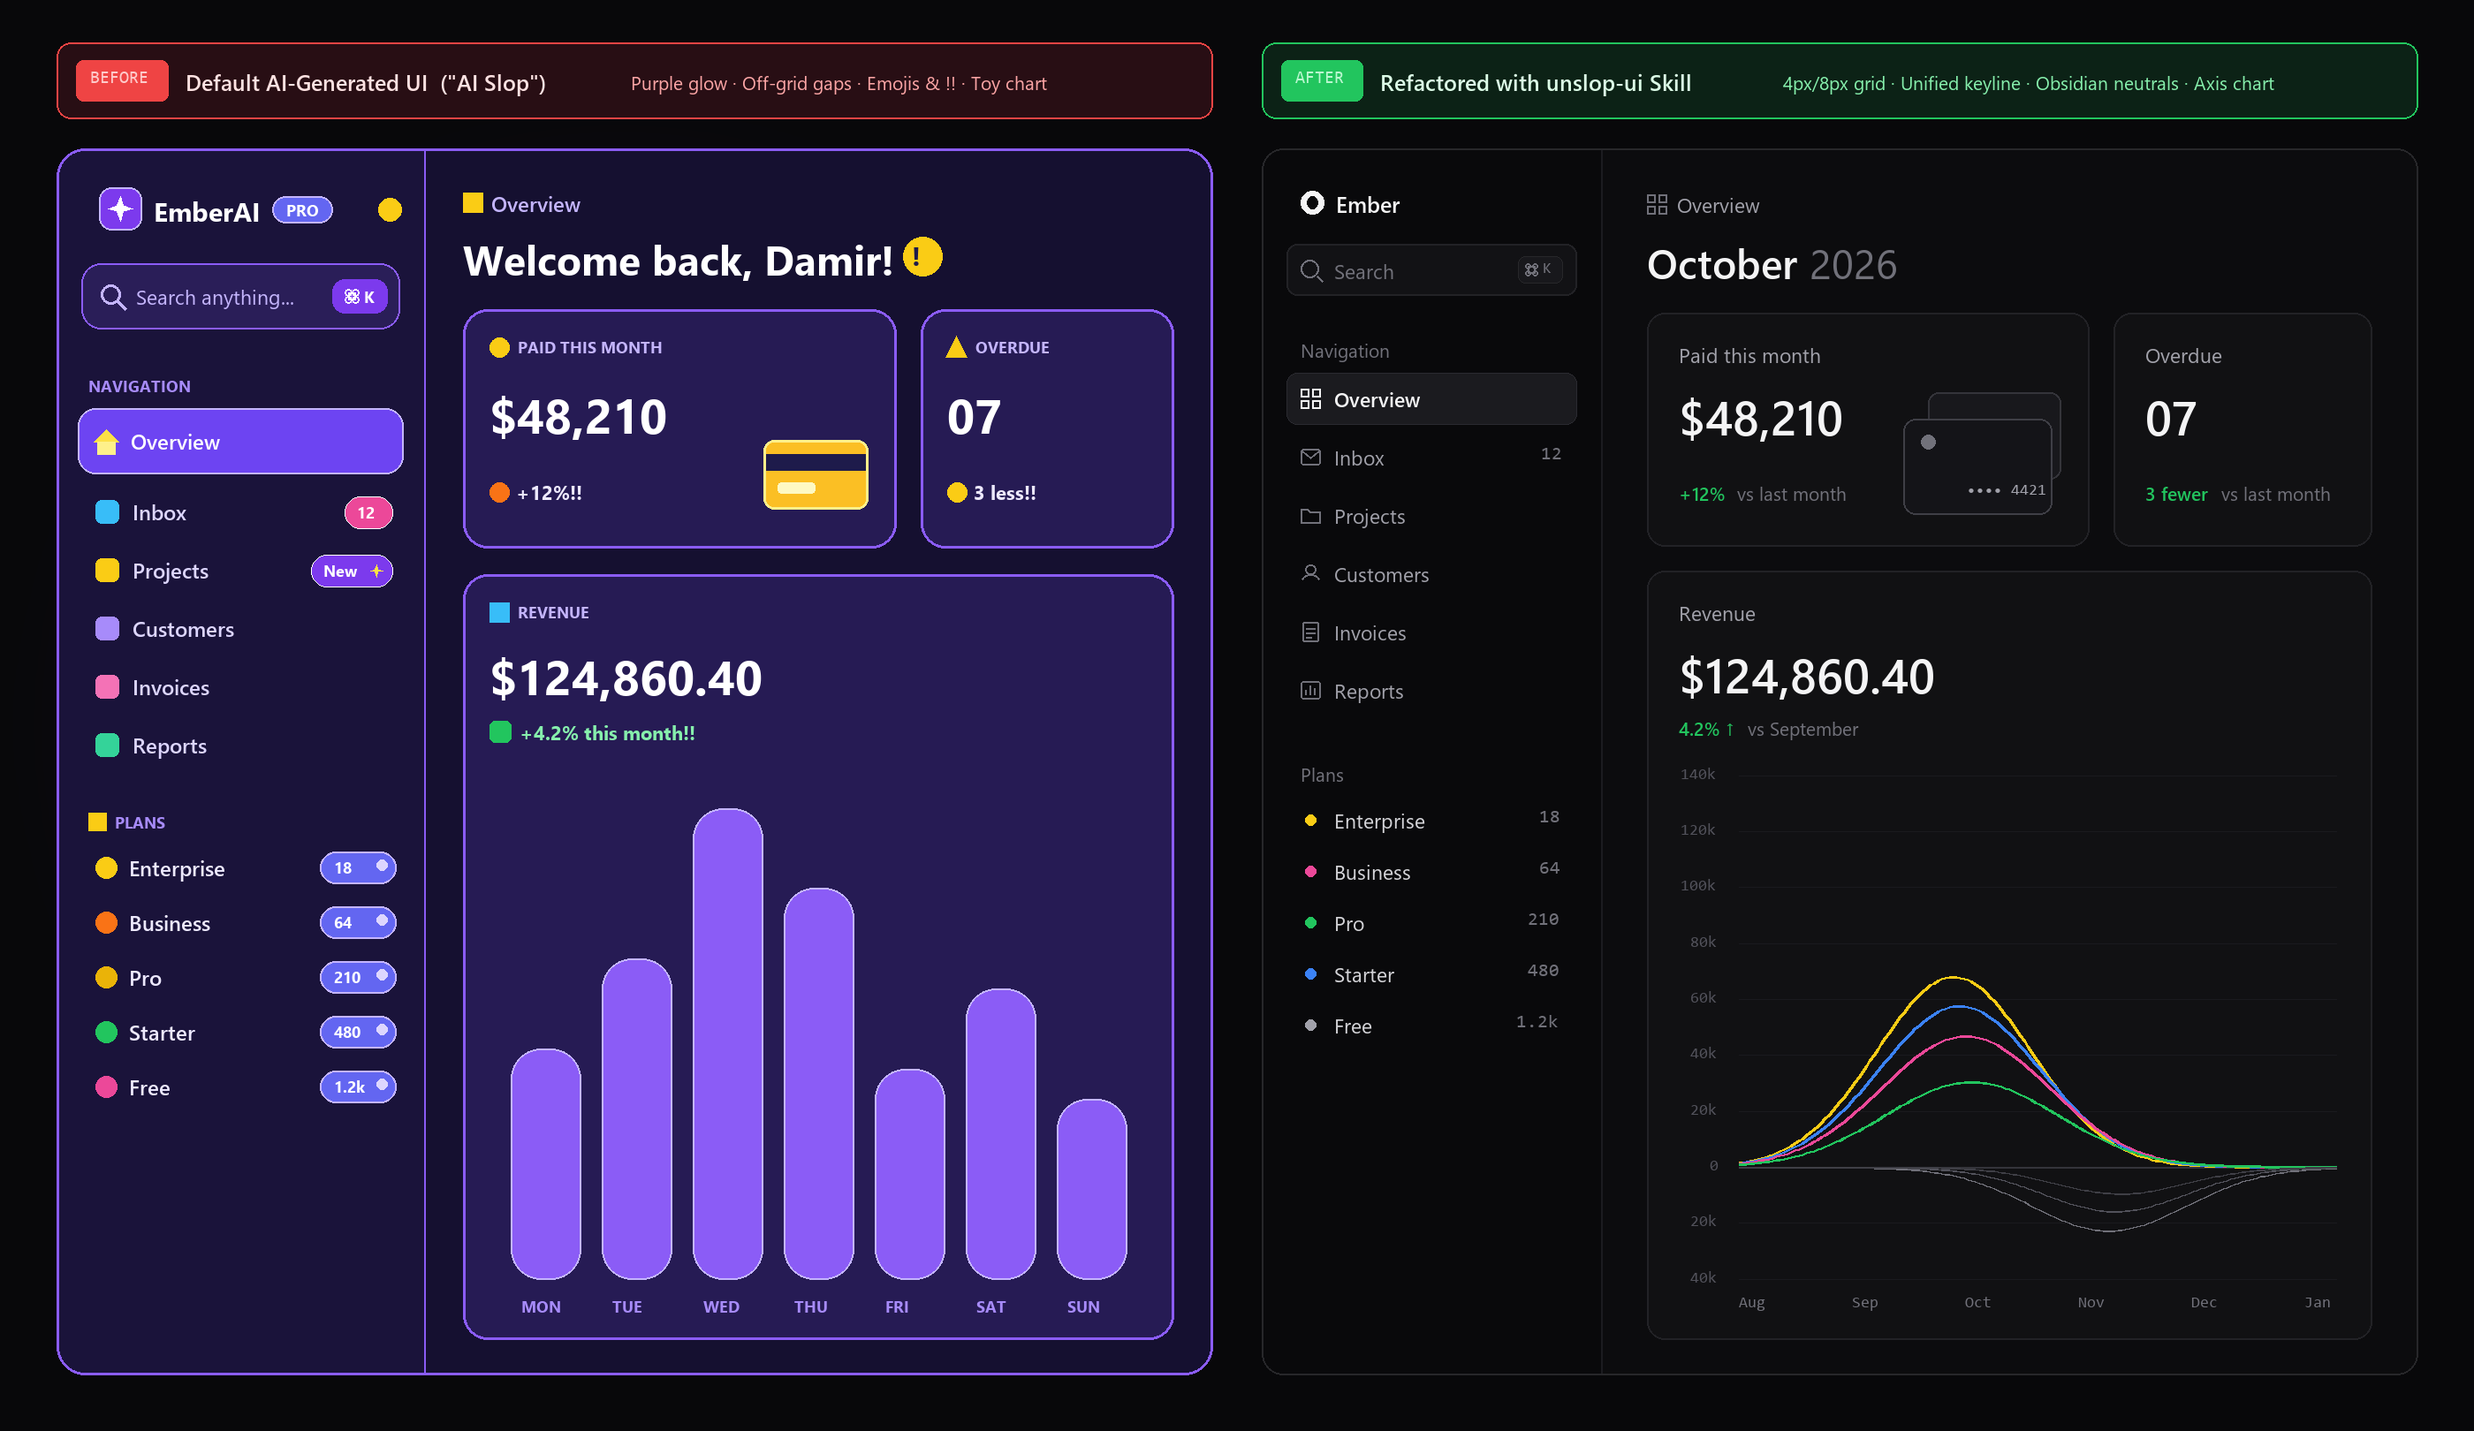
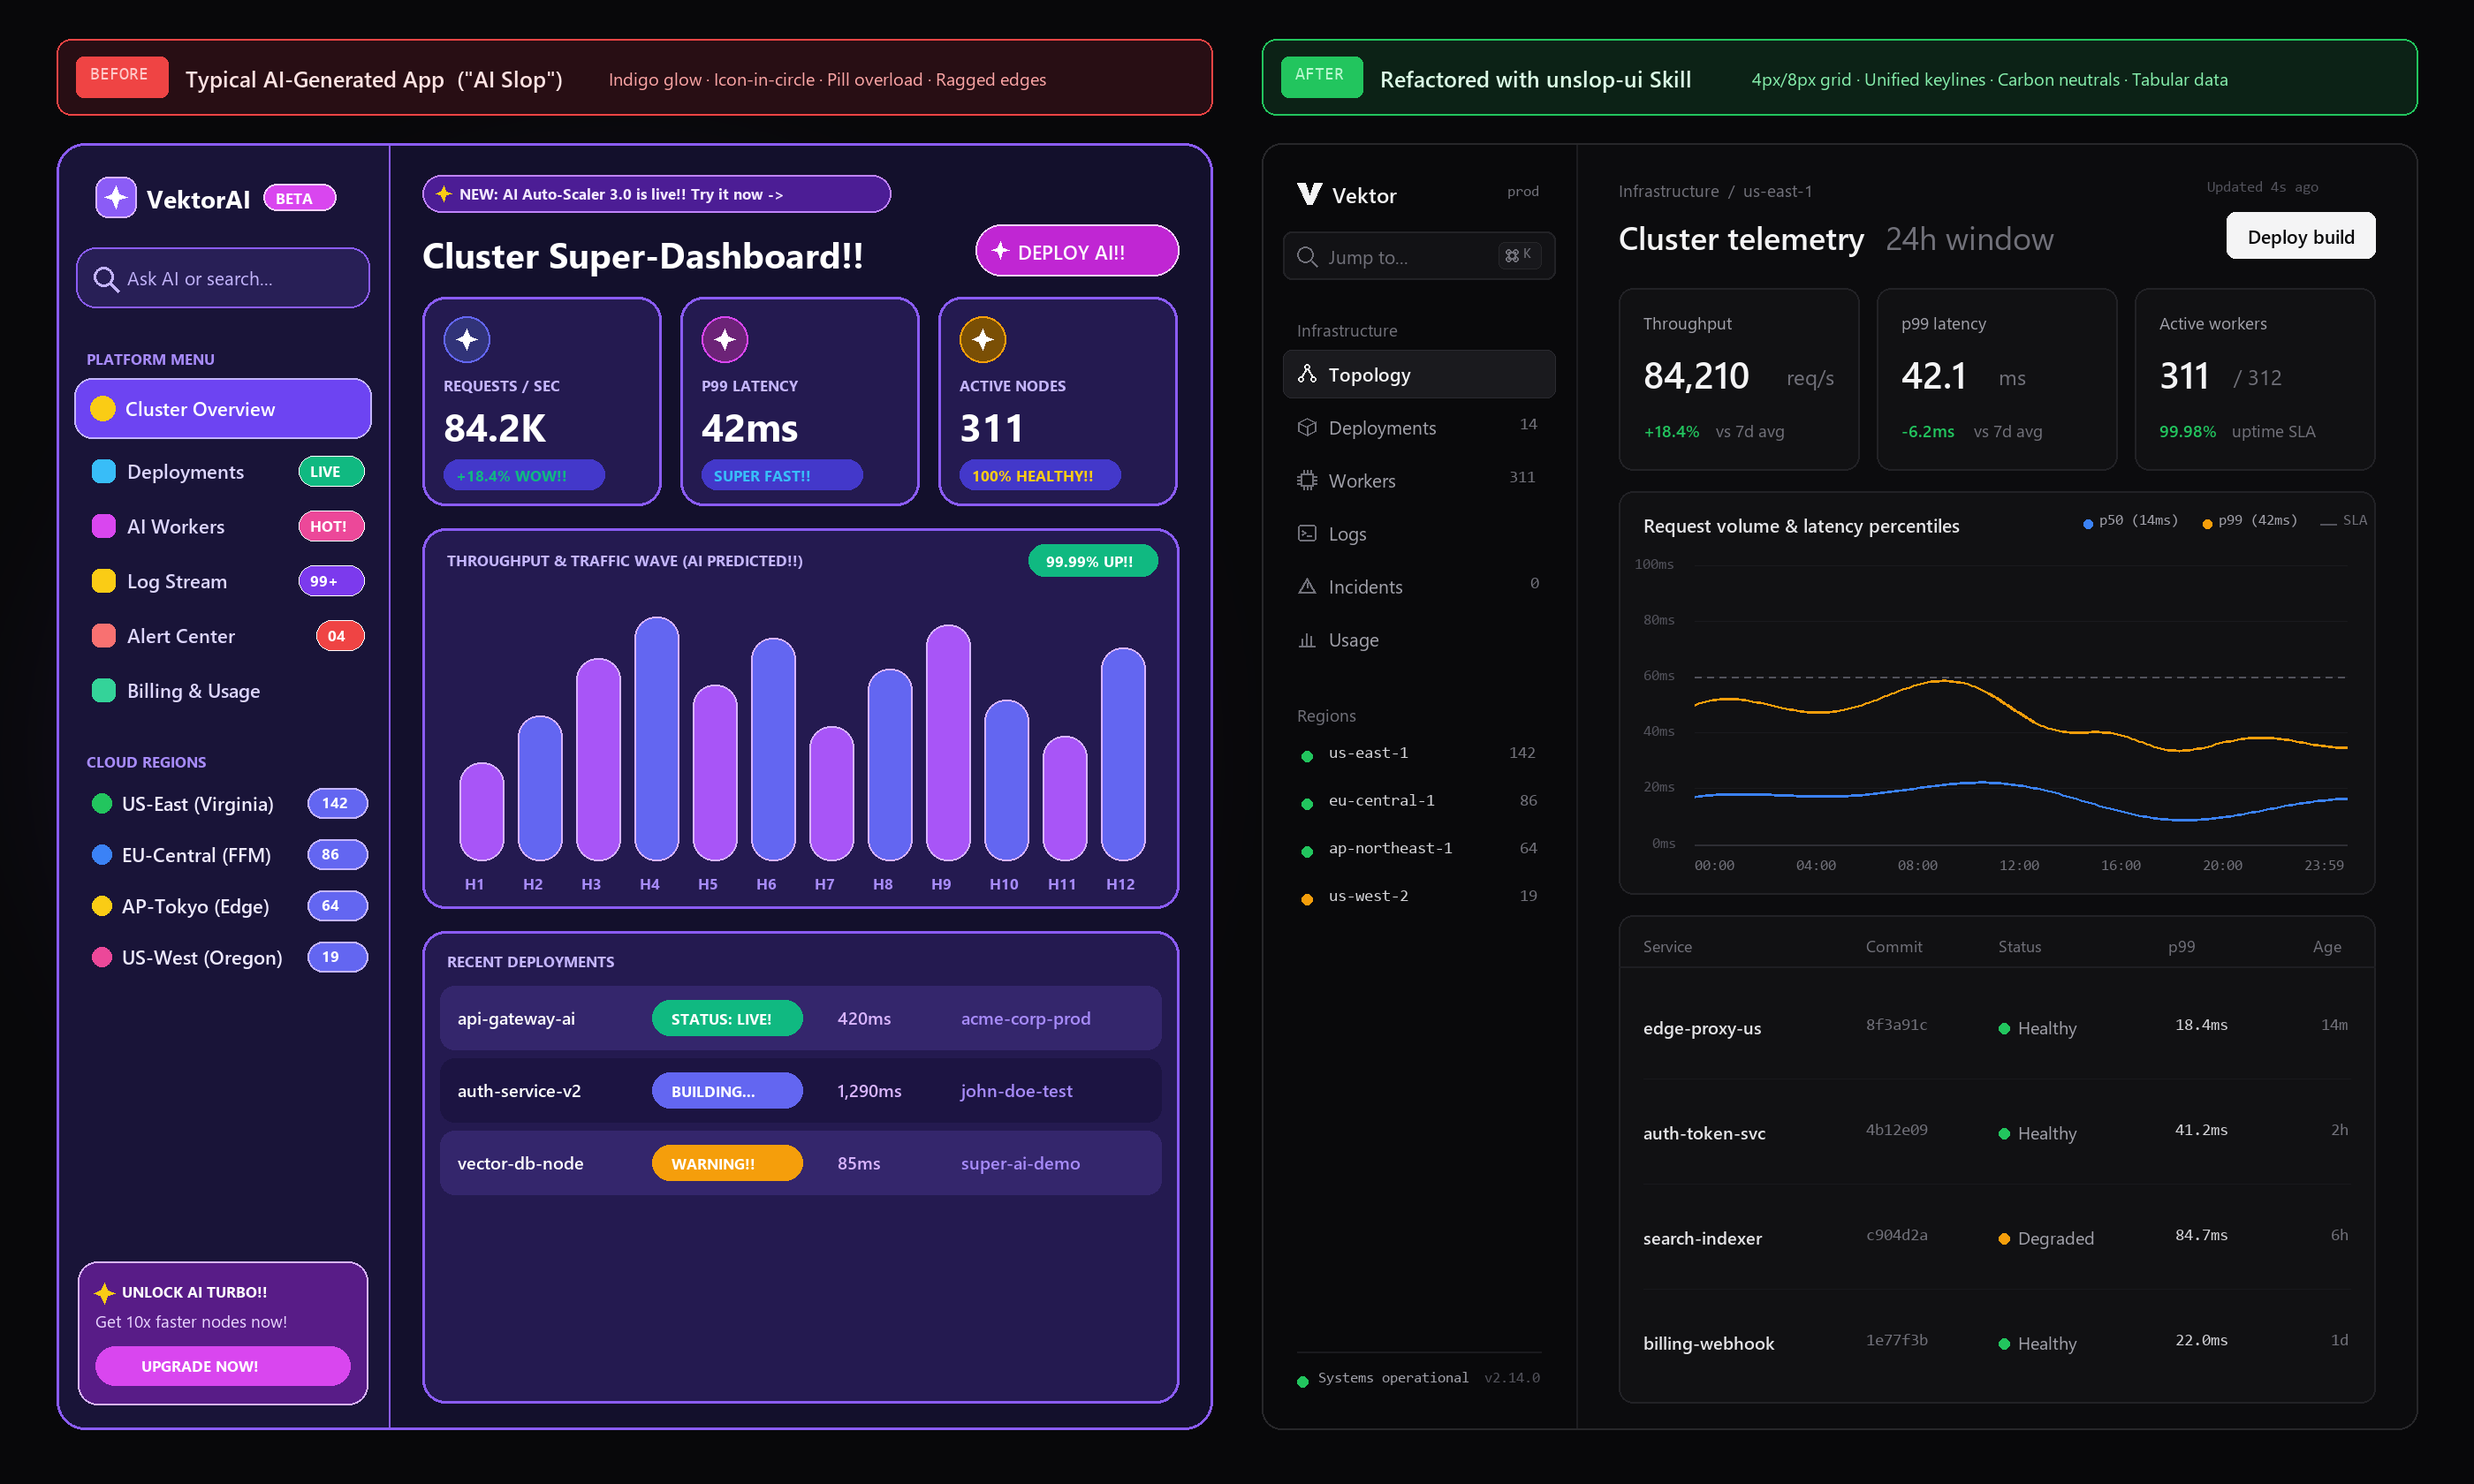
docs: replace before/after showcase with original cloud telemetry UI comparison

diff --git a/README.md b/README.md
@@ -14,14 +14,14 @@ AI-generated frontends suffer from a recognizable cluster of visual and structur
 
 | Dimension | ❌ AI Slop (Before) | ✅ Craft-Grade UI (After) |
 | :--- | :--- | :--- |
-| **Vertical Rhythm** | Arbitrary gaps (`22px`, `30px`, `42px`, `25px`), bloated `p-8` padding everywhere | Strict **`4px`/`8px` spatial grid** (`4, 8, 12, 16, 24, 32px`), compact `32px–36px` nav/input rows |
-| **Horizontal Keylines** | Ragged left edges (logo at `26px`, search at `18px`, nav icons floating) | Single **unified vertical keyline rail** shared by logo, inputs, section labels, and nav icons |
-| **Surface Palette** | Blue/purple-tinted dark mode (`#121326`), neon radial blobs, heavy `backdrop-blur` | **True carbon/obsidian neutrals** (`#09090B`, `#111113`, `#18181B`) or crisp alabaster (`#FAFAFA`, `#FFFFFF`) |
+| **Vertical Rhythm** | Arbitrary gaps (`22px`, `34px`, `46px`), bloated `p-8` padding everywhere | Strict **`4px`/`8px` spatial grid** (`4, 8, 12, 16, 24, 32px`), compact `28px–36px` nav/input rows |
+| **Horizontal Keylines** | Ragged left edges (logo at `44px`, search at `22px`, section headers at `34px`) | Single **unified vertical keyline rail** shared by logo, inputs, section labels, and nav icons |
+| **Surface Palette** | Blue/purple-tinted dark mode (`#13102C`), neon radial blobs, heavy `backdrop-blur` | **True carbon/obsidian neutrals** (`#09090B`, `#111113`, `#18181B`) or crisp alabaster (`#FAFAFA`, `#FFFFFF`) |
 | **Borders & Depth** | Glowing colored borders (`border-purple-500/40`), heavy colored drop shadows | Crisp **`1px solid` hairline borders** (`rgba(255,255,255,0.07)` dark / `#E4E4E7` light) |
-| **Typography & Case** | `UPPERCASE` tracking-wide labels (`PAID THIS MONTH`), jittery proportional numbers | Quiet **`Sentence case`** (`Paid this month`), `tabular-nums` on every numeric value |
-| **Copy & Branding** | `EmberAI [PRO]`, `Welcome back, Damir! 👋`, `🔥 +12%!!`, `✅ +4.2% this month!!` | Clean brand (`Ember`), contextual header (`October 2026`), sober delta (`+12% vs last month`) |
-| **Badges & Icons** | Emojis as UI icons (`👑`, `🏠`, `⚡`), saturated pill badges on every sidebar counter | Uniform `14px–16px` `1.5px`-stroke monochrome icons, `6px` semantic status dots, plain tabular counters |
-| **Data Visualization** | Thick rounded purple capsule bars with no Y-axis, no gridlines, fake heights | Explicit Y-axis scale (`0–140k`), `1px` hairline gridlines, zero-baseline, `1.5px` multi-series curves |
+| **KPI Cards & Icons** | Icons trapped inside 20%-opacity colored circles, `ALL CAPS` headers, `rounded-full` pill deltas | Pure typographic hierarchy, `Sentence case` labels, inline units (`req/s`, `ms`), `tabular-nums` |
+| **Copy & Chrome** | `VektorAI [BETA]`, `NEW: AI Auto-Scaler 3.0 is live!!`, `DEPLOY AI!!`, `UNLOCK AI TURBO!!` | Clean brand (`Vektor`), contextual header (`Cluster telemetry 24h window`), restrained `Deploy build` CTA |
+| **Data Visualization** | Thick rounded purple capsule bars (`H1–H12`) with no Y-axis, no gridlines, fake heights | Explicit Y-axis scale (`0ms–100ms`), `1px` hairline gridlines, dashed SLA threshold, `1.5px` p50/p99 curves |
+| **Data Tables** | Heavy zebra striping, giant glowing status pills (`STATUS: LIVE!`), unaligned numbers, `john-doe-test` | `1px` row dividers, `6px` semantic status dots (`Healthy`, `Degraded`), right-aligned tabular `p99` & `Age` |
 
 ---
 
